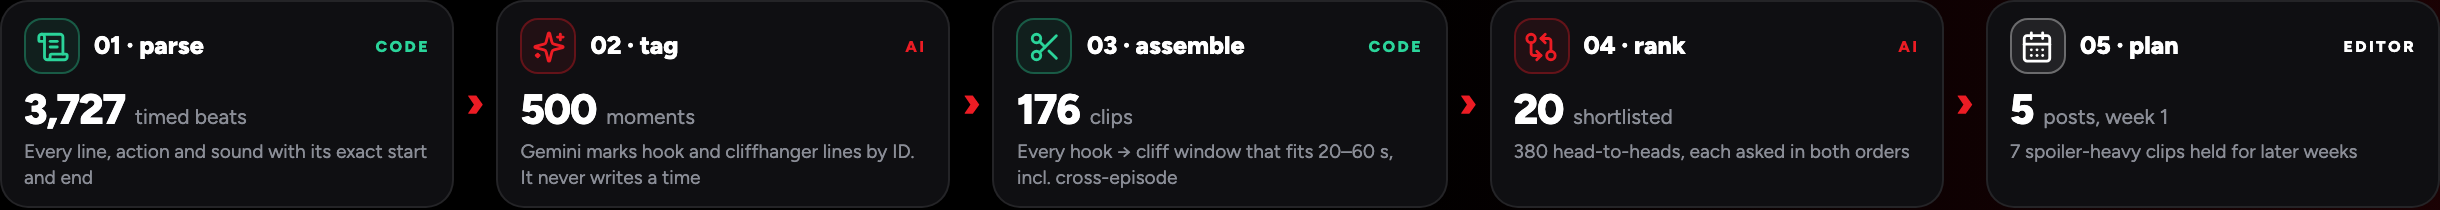
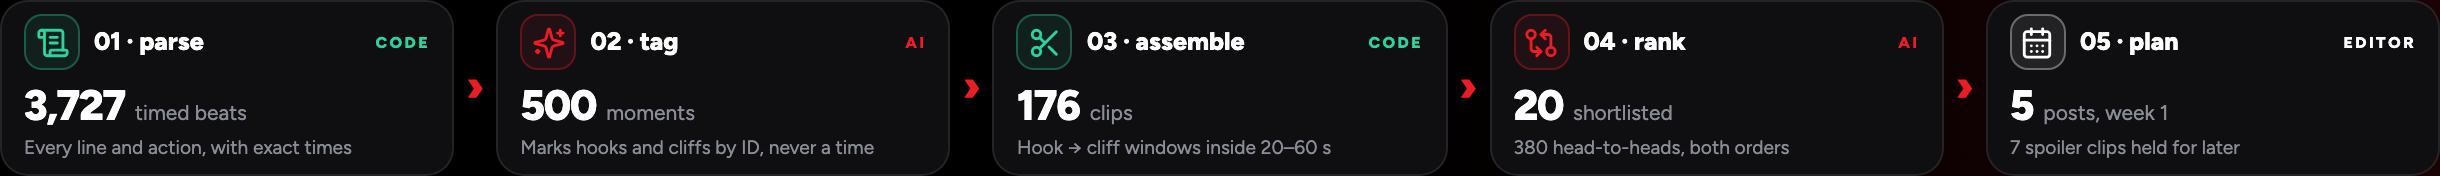
Add assumptions, where it picks badly, free version and an output checker

diff --git a/web/index.html b/web/index.html
@@ -169,6 +169,7 @@ section { padding:70px 0 10px }
 .tab:hover { color:#fff; background:rgba(255,255,255,.06) } .tab.on { color:#fff; background:var(--red) }
 #view { padding:26px 0 80px; min-height:420px }
 .card { background:var(--card); border:1px solid var(--line); border-radius:22px; padding:22px 24px; margin-bottom:18px; transition:transform .25s, border-color .25s, box-shadow .25s }
+#view .card { min-width:0; max-width:100%; overflow-x:auto }
 .card h2 { font-size:12px; font-weight:800; letter-spacing:1.8px; color:var(--mut); text-transform:uppercase; margin-bottom:14px }
 .note { font-size:14.5px; color:var(--mut) } .note b { color:#fff }
 .kpis { display:grid; grid-template-columns:repeat(5,1fr); gap:12px; margin-bottom:18px }
@@ -320,6 +321,16 @@ footer { border-top:1px solid var(--line); padding:26px 0 40px; font-size:13px; 
    <div class="stat"><b>26<em>/29</em></b><span>shocking lines planted in real episodes were found; 0 of 29 dull decoys were picked</span></div>
    <div class="stat"><b>~7<em> min</em></b><span>per 50-episode show, about $1.48 at API list prices. Any model swaps in with one setting</span></div>
   </div>
+ </section>
+
+ <section class="rv"><div class="h2">where it picks badly <span class="r">and the next fix</span></div>
+  <div class="stats">
+   <div class="stat"><b>#11</b><span>ends on a payoff: her fist closes round the ring she was looking for. The tagger called it a cliffhanger. Next: reject endings that resolve the hook</span></div>
+   <div class="stat"><b>2</b><span>pairs in the top 20 tell the same story twice (cosine 0.897 and 0.876, just under the 0.90 cut). Next: dedupe by scene, not text</span></div>
+   <div class="stat"><b>7<em>/20</em></b><span>top clips give away a twist. Only the week-1 plan holds them back. Next: a spoiler penalty in the ranking</span></div>
+   <div class="stat"><b>0.26<em>–.49</em></b><span>Spearman ρ between AI judges, so taste isn't proven, and it reads words, not acting. Next: editor labels</span></div>
+  </div>
+  <div class="sub" style="margin-top:14px"><b>Assumptions:</b> script times match the final cut · 20–60 s and hook ≤ 3 s are hard rules · viewers are strangers, so judges see only the clip · "best" means stops the scroll and pulls to the next episode · two moments may join if one lead links them.</div>
  </section>
 
  <div class="studio" id="studio"><div class="h2">the studio <span class="r">see it work</span></div>

diff --git a/deck/build_deck.py b/deck/build_deck.py
@@ -112,11 +112,11 @@ def callouts():
 
 
 def pipeline():
-    steps = [("scroll-text", "parse", f"{N_BEATS:,}", "timed beats", "CODE", "Every line, action and sound with its exact start and end"),
-             ("sparkles", "tag", f"{N_TAGS}", "moments", "AI", "Gemini marks hook and cliffhanger lines by ID. It never writes a time"),
-             ("scissors", "assemble", f"{meta['candidates']}", "clips", "CODE", "Every hook → cliff window that fits 20–60 s, incl. cross-episode"),
-             ("git-compare-arrows", "rank", "20", "shortlisted", "AI", f"{pw['verdicts']} head-to-heads, each asked in both orders"),
-             ("calendar-days", "plan", f"{len(PLAN)}", "posts, week 1", "EDITOR", f"{len(HOLD)} spoiler-heavy clips held for later weeks")]
+    steps = [("scroll-text", "parse", f"{N_BEATS:,}", "timed beats", "CODE", "Every line and action, with exact times"),
+             ("sparkles", "tag", f"{N_TAGS}", "moments", "AI", "Marks hooks and cliffs by ID, never a time"),
+             ("scissors", "assemble", f"{meta['candidates']}", "clips", "CODE", "Hook → cliff windows inside 20–60 s"),
+             ("git-compare-arrows", "rank", "20", "shortlisted", "AI", f"{pw['verdicts']} head-to-heads, both orders"),
+             ("calendar-days", "plan", f"{len(PLAN)}", "posts, week 1", "EDITOR", f"{len(HOLD)} spoiler clips held for later")]
     out = []
     for i, (ic, name, num, unit, who, txt) in enumerate(steps):
         col = {"CODE": "#2BD49A", "AI": "#EC1C24", "EDITOR": "#FFFFFF"}[who]
@@ -248,8 +248,11 @@ h1 { font-size:35px; line-height:1.02; font-weight:800; letter-spacing:-1.3px } 
 .coq { font-size:11px; font-weight:700; line-height:1.28; margin:3px 0 2px } .cow { font-size:10px; color:var(--mut) }
 .cowin { display:flex; gap:8px; align-items:flex-start; background:rgba(255,181,71,.08); border:1px solid rgba(255,181,71,.3); border-radius:12px; padding:8px 10px; font-size:10px; color:var(--tx2) }
 .cowin b { color:#fff } .cowin svg { flex:none; margin-top:1px }
+.nx { font-style:normal; color:#2BD49A }
+.asm { display:flex; align-items:stretch; gap:6px; margin-top:6px } .asm > span { flex:1; font-size:9.2px; color:var(--tx2); line-height:1.3; background:#0E0E10; border:1px solid var(--line); border-radius:10px; padding:4px 8px; display:flex; gap:6px; align-items:center; white-space:nowrap }
+.asm b { color:var(--red2); font-weight:800 } .asm .asmk { flex:0 0 92px; background:none; border:0; padding:5px 0; font-size:8.5px; font-weight:800; letter-spacing:1.4px; text-transform:uppercase; color:var(--mut); align-items:center }
 .pipe { display:flex; align-items:stretch; gap:6px }
-.st { flex:1; background:var(--card); border:1px solid var(--line); border-radius:14px; padding:8px 11px }
+.st { flex:1; background:var(--card); border:1px solid var(--line); border-radius:14px; padding:6px 11px }
 .sth { display:flex; align-items:center; gap:7px } .sti { width:28px; height:28px; border-radius:9px; border:1px solid; display:inline-flex; align-items:center; justify-content:center }
 .stn { font-size:12.5px; font-weight:800 } .stw { margin-left:auto; font-size:8px; font-weight:800; letter-spacing:1.2px }
 .stv { font-size:10.5px; color:var(--mut); margin:4px 0 2px } .stv b { font-size:21px; font-weight:800; color:#fff; letter-spacing:-.6px; margin-right:5px }
@@ -350,11 +353,17 @@ page1 = f"""<div class="page">{TOP}
 
  <div style="margin-top:10px"><div class="k">{icon("cpu", 12, "#8A8D96")}how it works · <em>code owns every timestamp and length, so 0 of {meta['candidates']} clips break a rule; the AI only judges drama</em></div>
   <div class="pipe">{pipeline()}</div></div>
+ <div class="asm"><span class="asmk">{icon("flag", 11, "#8A8D96")}assumptions I made</span>
+  <span><b>1</b>Script times match the final cut</span>
+  <span><b>2</b>20–60 s and hook ≤ 3 s are hard rules</span>
+  <span><b>3</b>Viewers are strangers: judges see only the clip</span>
+  <span><b>4</b>"Best" = stops the scroll, pulls to next episode</span>
+  <span><b>5</b>Two episodes may join if one lead links them</span></div>
 
- <div class="grid" style="grid-template-columns: 1fr 432px; gap:14px; margin-top:10px; height:146px">
+ <div class="grid" style="grid-template-columns: 1fr 432px; gap:14px; margin-top:8px; height:122px">
   <div style="display:flex; flex-direction:column"><div class="k">{icon("calendar-days", 12, "#8A8D96")}week 1 · <em>post these first</em><span style="margin-left:auto;text-transform:none;letter-spacing:0;font-weight:600">{len(HOLD)} clips held back for giving away twists</span></div>
    <div class="posters">{posters()}</div></div>
-  <div class="card" style="padding:10px 14px"><div class="k" style="margin-bottom:2px">{icon("crosshair", 12, "#8A8D96")}where the top 20 come from · episodes 1–50</div>{episode_map()}
+  <div class="card" style="padding:7px 14px 6px"><div class="k" style="margin-bottom:0">{icon("crosshair", 12, "#8A8D96")}where the top 20 come from · episodes 1–50</div>{episode_map()}
    <div class="lg"><span><i style="background:#fff"></i>top-20 clip</span><span><i style="background:#EC1C24"></i>the #1 clip</span><span><i style="background:#B48CFF;border-radius:0;height:2px;width:12px;vertical-align:2px"></i>joins two episodes</span></div></div>
  </div>
  <div class="foot"><span>Run on all 50 episodes of <i>I Married a Broken Soldier. He was a Duke</i>. Every number is generated from the run files.</span><span>1 / 2</span></div>
@@ -460,7 +469,7 @@ page2 = f"""<div class="page p2">{TOP}
    <span style="margin-left:auto;text-transform:none;letter-spacing:0;font-weight:600"><b style="color:#2BD49A">CODE</b> deterministic · <b style="color:#FF4D52">AI</b> model call · <b style="color:#C9CBD1">EDITOR</b> person</span></div>
   <div class="arch">{arch()}</div>
   <div class="infra">
-   <div>{icon("git-compare-arrows", 12, "#C9CBD1")}<span><b>Model layer.</b> LiteLLM with one env var per role (<code>PROMO_TAG_MODEL</code>, <code>PROMO_RANK_MODEL</code>…) and fallback chains. Every call logs which model answered.</span></div>
+   <div>{icon("git-compare-arrows", 12, "#C9CBD1")}<span><b>Model layer.</b> LiteLLM with one env var per role (<code>PROMO_TAG_MODEL</code>, <code>PROMO_RANK_MODEL</code>…) and fallback chains. <b>Free version:</b> one free Gemini key runs every step; without Jev, Gemini judges the pairs.</span></div>
    <div>{icon("zap", 12, "#C9CBD1")}<span><b>Serving.</b> Vercel: static site plus a Python function (<code>api/run.py</code>) for passphrase-gated live runs. Keys live in Vercel env, never in code.</span></div>
    <div>{icon("shield-check", 12, "#C9CBD1")}<span><b>Safe by default.</b> A pre-push check blocks keys, <code>.env</code> and script text from the repo. Live runs need a passphrase because they call paid APIs.</span></div>
   </div>
@@ -496,11 +505,11 @@ page2 = f"""<div class="page p2">{TOP}
      <div class="lim"><div><b>Bradley-Terry fit</b><span>Turns {pw['verdicts']} verdicts into one strength per clip. The #1 clip beats all 19 others.</span></div></div>
      <div class="lim"><div><b>Cheap enough to ask all</b><span>{pw['verdicts']} verdicts for ${jev['cost_usd']:.3f}, ~0.3 s each.</span></div></div>
     </div></div></div>
-  <div class="card"><div class="k">{icon("triangle-alert", 12, "#8A8D96")}what it can't do yet</div>
-   <div class="lim"><span class="ic">{icon("brain-circuit", 14, "#FFB547")}</span><div><b>Prove its taste</b><span>AI judges agree weakly (ρ 0.26–0.49). Editor labels would settle it.</span></div></div>
-   <div class="lim"><span class="ic">{icon("film", 14, "#FFB547")}</span><div><b>See the performance</b><span>It reads the script, not the actor's delivery.</span></div></div>
-   <div class="lim"><span class="ic">{icon("clock", 14, "#FFB547")}</span><div><b>Know the final cut</b><span>If the edit drifts from script times, the editor nudges cuts.</span></div></div>
-   <div class="lim"><span class="ic">{icon("split", 14, "#FFB547")}</span><div><b>Catch every repeat</b><span>Two same-story pairs remain in the top 20.</span></div></div>
+  <div class="card"><div class="k">{icon("triangle-alert", 12, "#8A8D96")}where it picks badly <em>· and the next fix</em></div>
+   <div class="lim"><span class="ic">{icon("scissors", 14, "#FFB547")}</span><div><b>Ends on a payoff: #11</b><span>Closes on her fist round the found ring. <i class="nx">Fix: reject endings that resolve.</i></span></div></div>
+   <div class="lim"><span class="ic">{icon("split", 14, "#FFB547")}</span><div><b>Same story twice: 2 pairs</b><span>#2/#4 and #5/#6, cosine 0.897, 0.876 &lt; 0.90 cut. <i class="nx">Fix: dedupe by scene.</i></span></div></div>
+   <div class="lim"><span class="ic">{icon("eye-off", 14, "#FFB547")}</span><div><b>Spoilers rank high: 7 of 20</b><span>Only the plan holds them back. <i class="nx">Fix: penalise in the rank.</i></span></div></div>
+   <div class="lim"><span class="ic">{icon("brain-circuit", 14, "#FFB547")}</span><div><b>Taste not proven</b><span>AI judges agree at ρ 0.26–0.49; it reads words, not acting. <i class="nx">Fix: editor labels.</i></span></div></div>
 </div>
   <div class="card"><div class="k">{icon("wand-sparkles", 12, "#8A8D96")}where AI tools misled me</div>
    <div class="wr"><span class="x">Asked for 20–60 s clips, it returned 9–160 s.</span> <span class="ok">So code builds every clip.</span></div>

diff --git a/scripts/verify_outputs.py b/scripts/verify_outputs.py
@@ -1,0 +1,75 @@
+"""Check a run's promos against the screenplays, without trusting the run.
+
+Re-parses the scripts and checks every promo:
+  - each segment's hook and cliff beat IDs exist in that episode;
+  - every in time is some beat's start and every out time some beat's end, so no time was
+    invented and no cut lands mid-line;
+  - total length is 20-60 s;
+  - the hook beat sits inside the first segment and starts within 3 s of it;
+  - ranks are 1..N with no gaps.
+
+Usage: python scripts/verify_outputs.py <screenplay folder> [run dir, default runs/v3_final]
+Exits 1 if any check fails.
+"""
+import json
+import sys
+from pathlib import Path
+
+sys.path.insert(0, str(Path(__file__).resolve().parent.parent))
+from promo.parser import parse_show  # noqa: E402
+
+
+def main(pack: str, run: str = "runs/v3_final") -> int:
+    beats = {b.id: b for ep in parse_show(pack) for b in ep.beats}
+    starts, ends = {}, {}
+    for b in beats.values():
+        starts.setdefault(b.episode, set()).add(round(b.start, 2))
+        ends.setdefault(b.episode, set()).add(round(b.end, 2))
+    promos = json.loads((Path(run) / "promos.json").read_text())["promos"]
+    fails, counts = [], {"ids": 0, "times": 0, "length": 0, "hook": 0}
+
+    for p in promos:
+        segs, ok = p["segments"], True
+        for s in segs:
+            a, b = beats.get(s["start_beat"]), beats.get(s["end_beat"])
+            if not (a and b and a.episode == b.episode == s["episode"]):
+                fails.append(f"{p['id']}: bad beat IDs {s['start_beat']}..{s['end_beat']}")
+                ok = False
+                continue
+            counts["ids"] += 1
+            e = s["episode"]
+            if round(s["start"], 2) not in starts[e] or round(s["end"], 2) not in ends[e]:
+                fails.append(f"{p['id']}: {s['start']}-{s['end']} is not on beat boundaries")
+            else:
+                counts["times"] += 1
+        dur = sum(s["end"] - s["start"] for s in segs)
+        if 20 - 0.01 <= dur <= 60 + 0.01:
+            counts["length"] += 1
+        else:
+            fails.append(f"{p['id']}: length {dur:.1f} s")
+        h, s0 = beats.get(p.get("hook_beat") or ""), segs[0]
+        if ok and h and h.episode == s0["episode"] and s0["start"] <= h.start <= s0["start"] + 3.0 + 0.01:
+            counts["hook"] += 1
+        else:
+            fails.append(f"{p['id']}: hook beat {p.get('hook_beat')} not in the first 3 s")
+
+    ranks = sorted(p["rank"] for p in promos)
+    if ranks != list(range(1, len(promos) + 1)):
+        fails.append("ranks are not 1..N")
+
+    n, nseg = len(promos), sum(len(p["segments"]) for p in promos)
+    print(f"{n} promos, {nseg} segments, {len(beats):,} beats re-parsed")
+    print(f"  beat IDs exist:        {counts['ids']}/{nseg}")
+    print(f"  on beat boundaries:    {counts['times']}/{nseg}")
+    print(f"  length 20-60 s:        {counts['length']}/{n}")
+    print(f"  hook in first 3 s:     {counts['hook']}/{n}")
+    for f in fails:
+        print("  FAIL", f)
+    print("OK" if not fails else f"{len(fails)} failures")
+    return 1 if fails else 0
+
+
+if __name__ == "__main__":
+    if len(sys.argv) < 2:
+        sys.exit(__doc__)
+    sys.exit(main(*sys.argv[1:3]))

diff --git a/README.md b/README.md
@@ -96,14 +96,26 @@ I tested the parts I could check against an answer key that no AI wrote ([`exper
 - **Writers' cliffhangers.** Each episode ends on a cliffhanger the writers chose. The tagger found it in 41–47 of 50 episodes depending on the model, against 18–26% by chance.
 - **Rules.** 0 of 176 clips break the length or hook rule. 81% of pairwise verdicts are the same in both orders.
 
-## What it can't do yet
+## Where it picks badly
 
-<img src="docs/limits.png" alt="Limits" width="49%"> <img src="docs/ai-tools.png" alt="Where AI tools misled me" width="49%">
+<img src="docs/limits.png" alt="Where it picks badly" width="49%"> <img src="docs/ai-tools.png" alt="Where AI tools misled me" width="49%">
 
-- **Prove its taste.** Three AI judges agree with each other only weakly (Spearman 0.26–0.49), and two blind audits disagreed on whether v2 beat v1. What's proven is the process: rules, no re-cuts, no ties, a reproducible order, speed and cost. Whether people prefer these promos needs editor labels or view data, which the review UI collects.
-- **See the performance.** It reads the script, so a slap is judged from the description, not the actor's delivery.
-- **Know the final cut.** Times come from the script. If the edit drifts, the editor nudges the in and out points.
-- **Catch every repeat.** Two same-story pairs are still in the top 20.
+Real cases from the final run, each with the fix I'd build next:
+
+- **It ends on a payoff.** #11 (E13) closes on her fist gripping the ring she was searching for, which answers the clip's question. The tagger labelled that beat a cliffhanger. *Fix:* reject a window when its last beats resolve the hook.
+- **It keeps the same story twice.** Two same-story pairs are still in the top 20: #2 and #4 are one thug fight across episodes 15 and 16 (cosine 0.897), and #5 and #6 are one chapel scene (0.876). Both sit just under the 0.90 dedupe cut. *Fix:* dedupe by scene and characters, not text alone.
+- **Spoilers rank high.** 7 of the top 20 give away a twist. The ranking ignores spoiler risk; only the week-1 plan holds them back. *Fix:* a spoiler penalty in the rank, stronger for later episodes.
+- **Its taste is not proven.** Three AI judges agree only weakly (Spearman 0.26–0.49), and two blind audits disagreed on whether v2 beat v1. What's proven is the process: rules, no re-cuts, no ties, a reproducible order, speed and cost. *Fix:* editor labels or view data, which the review UI collects.
+- **It reads words, not pictures.** A slap is judged from its description, not the actor's delivery. A strong silent shot is underrated.
+
+## Assumptions
+
+1. Script times match the final cut. If the edit drifts, the editor nudges the in and out points.
+2. 20–60 s and a hook in the first 3 s are hard rules, so code enforces them. "Cut before the answer" is judgement, so the AI judges it.
+3. A viewer has never seen the show, so the judges see only the clip.
+4. "Best" means most likely to stop a scroll and pull the viewer to the next episode.
+5. A clip may join two moments, even across episodes, if one lead character links them.
+6. Cuts land on beat boundaries, never mid-line.
 
 ## AI tools I used, and where they misled me
 
@@ -124,10 +136,13 @@ cp .env.example .env                                   # add keys, see below
 .venv/bin/python demo.py runs/new_show_test                     # no keys: view a saved run
 .venv/bin/streamlit run app.py                                  # editor review UI (approve / reject)
 .venv/bin/python tests/test_parser.py                           # parser tests, no keys
+.venv/bin/python scripts/verify_outputs.py "<show folder>"      # re-check a run against the scripts, no keys
 .venv/bin/python scripts/dev_server.py                          # the site + live-run API on localhost:3000
 ```
 
 **Keys.** A free `GEMINI_API_KEY` from AI Studio runs everything, with fallbacks. `VERTEX_API_KEY` moves tagging and notes to Vertex Gemini 3.5 Flash. `TYPESAFE_API_KEY` turns on Jev for screening and ranking. Any LiteLLM model string can be set per role, for example `PROMO_RANK_MODEL=openai/gpt-5-mini`.
+
+**Free version.** With only the free Gemini key, every step still runs: Gemini tags, screens and judges the pairs (a Swiss tournament instead of all pairs), within free-tier quotas. The cliffhanger test above scored 94% on the free `gemini-3.1-flash-lite` tagger. Jev is the paid upgrade. On the same shortlist it gave the same winner in both orders 80% of the time against 68% for the free ranker, with split-half ρ 0.90 against 0.44, in 16 s against about 25 min ([details](experiments/JEV_RESULTS.md)).
 
 **Input.** One file per episode (`.txt`, `.md` or `.fountain`). The parser accepts several layouts: `**LABEL:**` or `LABEL:` blocks, `NAME (Emotion):` dialogue, and times like `Start: (mm:ss.ff) | End: (...)`, `[mm:ss.ff - mm:ss.ff]`, `mm:ss,ff --> mm:ss,ff` or `1.0s - 4.8s`. If it finds nothing usable it stops with a clear error. [`tests/fixtures/new_show/`](tests/fixtures/new_show/) is an AI-written 4-episode show in a different format that proves a new show runs end to end ([output](runs/new_show_test/report.md)).
 
